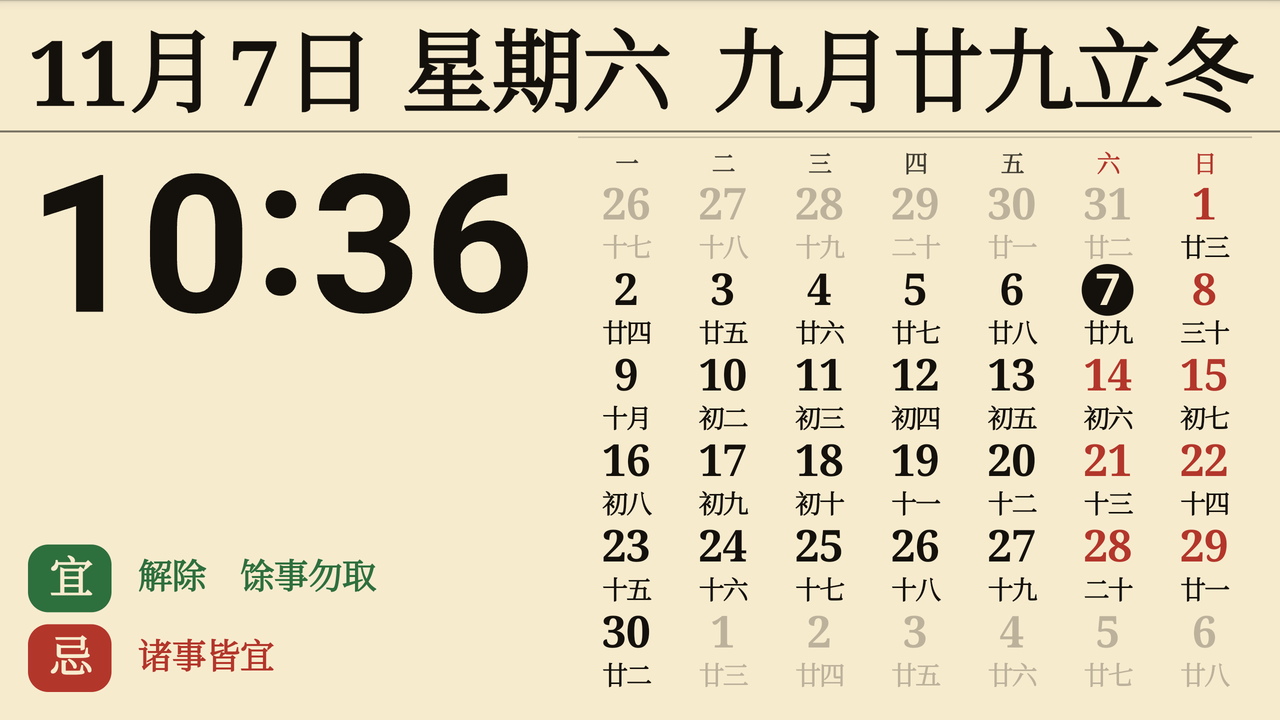
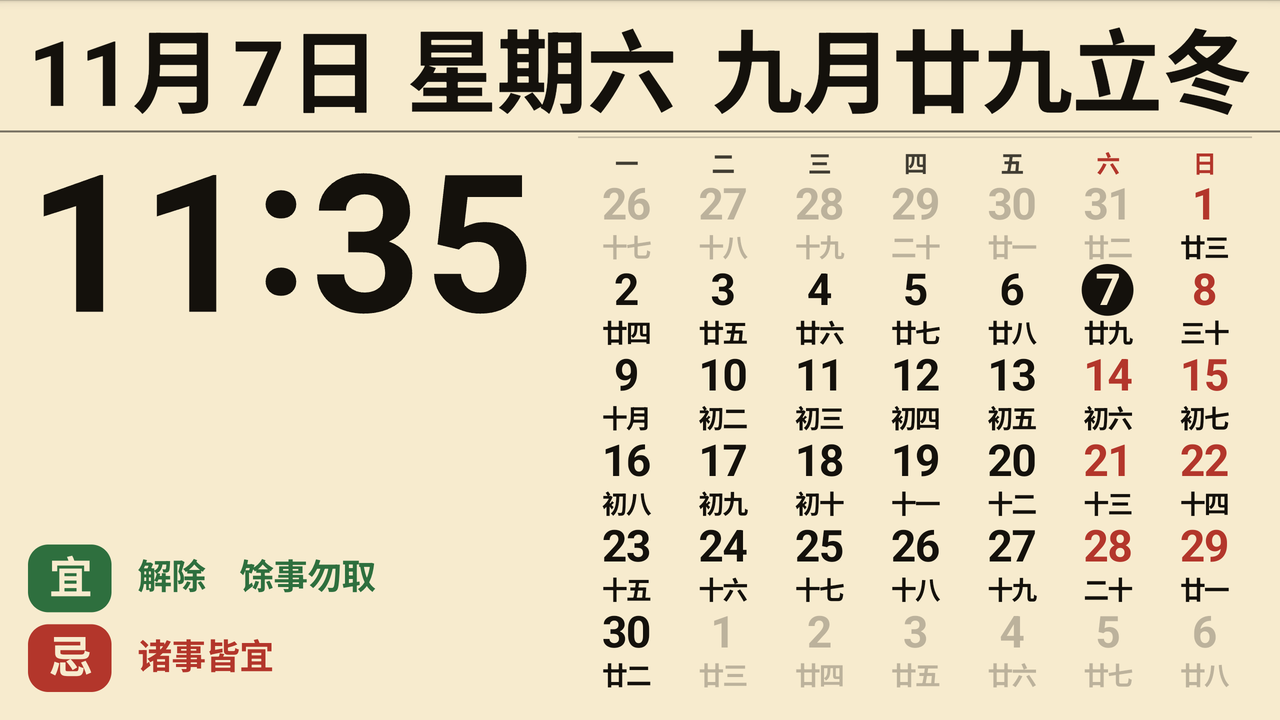
feat: set the page in the system sans-serif and let the date line shrink freely
Every run on the page now comes from the system sans-serif family, in its
normal and bold weights: the serif faces are gone from the printing plate,
from the chooser's Aa mark and from the docs.

The lunar run can carry a three-character festival (元宵节, 端午节, 重阳节,
腊八节) on top of a six-character lunar name, so the date line can reach nine
characters — 十一月三十 plus a festival. Its shrink has no floor any more:
keeping the weekday run clear of the lunar run outranks holding a minimum
size, so the two halves cannot meet however long the name grows. headerSpan
exposes the measured edges, and the device acceptance pass checks them on the
longest days of the year plus a nine-character worst case, at 85/100/140% in
both orientations: the tightest combination shrinks to 33% of the date size
and still keeps an em of air between the two runs.

diff --git a/app/src/main/java/com/calendarmods/DailyPage.kt b/app/src/main/java/com/calendarmods/DailyPage.kt
@@ -158,7 +158,7 @@ internal class DailyPage(
     // ------------------------------------------------------------------ blocks
 
     /**
-     * Date line: 11月 6日 星期五 with the day's lunar name right-aligned on the same baseline. The
+     * Date line: 11月 6日 星期六 with the day's lunar name right-aligned on the same baseline. The
      * lunar run carries the day's solar term or first festival without a space — `九月廿九立冬`.
      * Every run is set at the same size, so the line reads as one block rather than a headline and
      * a footnote; when the line is too wide the whole run gives up size together.
@@ -167,29 +167,53 @@ internal class DailyPage(
         val size = HEADER_SIZE * layout.scale * layout.headerScale
         val baseline = top + size * .86f
         var cursor = x
-        cursor += p.textAt(data.monthLabel, cursor, baseline, size, ink, p.serifBold) + GAP_MONTH * size
-        cursor += p.textAt(data.day, cursor, baseline, size, ink, p.serifBold) + GAP_DAY * size
-        cursor += p.textAt("日", cursor, baseline, size, ink, p.serifBold) + GAP_WEEKDAY * size
-        p.textAt(data.weekdayChinese, cursor, baseline, size, ink, p.serifBold)
+        cursor += p.textAt(data.monthLabel, cursor, baseline, size, ink, p.bold) + GAP_MONTH * size
+        cursor += p.textAt(data.day, cursor, baseline, size, ink, p.bold) + GAP_DAY * size
+        cursor += p.textAt("日", cursor, baseline, size, ink, p.bold) + GAP_WEEKDAY * size
+        p.textAt(data.weekdayChinese, cursor, baseline, size, ink, p.bold)
 
-        val lunarWidth = p.advance(data.lunarHeadline, size, p.serifBold)
-        p.textAt(data.lunarHeadline, x + w - lunarWidth, baseline, size, ink, p.serifBold)
+        val lunarWidth = p.advance(data.lunarHeadline, size, p.bold)
+        p.textAt(data.lunarHeadline, x + w - lunarWidth, baseline, size, ink, p.bold)
     }
 
-    /** How much the date line has to give up so the lunar run keeps its space on the right. */
-    private fun headerFit(p: Plate, w: Float, scale: Float): Float {
-        val needed = headerWidth(p, HEADER_SIZE * scale)
+    /**
+     * How much the date line has to give up so the lunar run keeps its space on the right. There is
+     * no floor: the headline can carry a term or festival (`十一月三十重阳节` is nine characters),
+     * and the weekday run clearing the lunar run outranks keeping a minimum size.
+     */
+    private fun headerFit(p: Plate, w: Float, scale: Float, headline: String = data.lunarHeadline): Float {
+        val needed = headerWidth(p, HEADER_SIZE * scale, headline)
         if (needed <= w) return 1f
-        return (w / needed).coerceIn(HEADER_MIN, 1f)
+        return w / needed
     }
+
+    /** Everything left of the lunar run, run gaps included. */
+    private fun headerLeftWidth(p: Plate, size: Float): Float =
+        p.advance(data.monthLabel, size, p.bold) + GAP_MONTH * size +
+            p.advance(data.day, size, p.bold) + GAP_DAY * size +
+            p.advance("日", size, p.bold) + GAP_WEEKDAY * size +
+            p.advance(data.weekdayChinese, size, p.bold)
 
     /** Gaps are em-based, so the whole line gives up size together and never closes up. */
-    private fun headerWidth(p: Plate, size: Float): Float =
-        p.advance(data.monthLabel, size, p.serifBold) + GAP_MONTH * size +
-            p.advance(data.day, size, p.serifBold) + GAP_DAY * size +
-            p.advance("日", size, p.serifBold) + GAP_WEEKDAY * size +
-            p.advance(data.weekdayChinese, size, p.serifBold) + GAP_LUNAR * size +
-            p.advance(data.lunarHeadline, size, p.serifBold)
+    private fun headerWidth(p: Plate, size: Float, headline: String): Float =
+        headerLeftWidth(p, size) + GAP_LUNAR * size + p.advance(headline, size, p.bold)
+
+    /**
+     * Where the two halves of the date line land, measured the way [header] prints them. The
+     * device acceptance pass walks it over every marked day of the year to prove that the weekday
+     * run stops short of the lunar run whatever length the term or festival adds.
+     */
+    internal fun headerSpan(p: Plate, scale: Float, headline: String = data.lunarHeadline): HeaderSpan {
+        val w = width - EDGE * 2f
+        val size = HEADER_SIZE * scale * headerFit(p, w, scale, headline)
+        return HeaderSpan(
+            size = size,
+            leftEnd = EDGE + headerLeftWidth(p, size),
+            lunarLeft = EDGE + w - p.advance(headline, size, p.bold),
+        )
+    }
+
+    internal class HeaderSpan(val size: Float, val leftEnd: Float, val lunarLeft: Float)
 
     private fun rule(p: Plate, x: Float, y: Float, w: Float) {
         p.rule(x, y, w, Plate.withAlpha(ink, .55f), 1f)
@@ -243,7 +267,7 @@ internal class DailyPage(
     private fun almanacRow(p: Plate, layout: Layout, label: String, items: List<String>,
         color: Int, top: Float): Float {
         val chipSize = layout.chipSize
-        val chipW = p.advance(label, chipSize, p.serifBold) + chipSize * .95f
+        val chipW = p.advance(label, chipSize, p.bold) + chipSize * .95f
         val chipH = chipSize * 1.55f
         p.paint.reset()
         p.paint.isAntiAlias = true
@@ -252,7 +276,7 @@ internal class DailyPage(
         chipRect.set(layout.almanacX, top, layout.almanacX + chipW, top + chipH)
         p.canvas.drawRoundRect(chipRect, radius, radius, p.paint)
         p.text(label, layout.almanacX, top, chipW, chipH, chipSize, onAccent,
-            align = ALIGN_CENTER, typeface = p.serifBold)
+            align = ALIGN_CENTER, typeface = p.bold)
 
         val textX = layout.almanacX + chipW + chipSize * .6f
         val textW = (layout.almanacX + layout.almanacW - textX).coerceAtLeast(1f)
@@ -261,7 +285,7 @@ internal class DailyPage(
         var baseline = top + (chipH - lines.size * lineHeight) / 2f + layout.itemSize * 1.02f
         if (baseline < top + layout.itemSize) baseline = top + layout.itemSize
         lines.forEach { line ->
-            p.textAt(line, textX, baseline, layout.itemSize, color, p.serifBold)
+            p.textAt(line, textX, baseline, layout.itemSize, color, p.bold)
             baseline += lineHeight
         }
         return max(chipH, lines.size * lineHeight)
@@ -279,7 +303,7 @@ internal class DailyPage(
     }
 
     private fun almanacHeight(p: Plate, layout: Layout): Float {
-        val chipW = p.advance("宜", layout.chipSize, p.serifBold) + layout.chipSize * .95f
+        val chipW = p.advance("宜", layout.chipSize, p.bold) + layout.chipSize * .95f
         val textW = (layout.almanacW - chipW - layout.chipSize * .6f).coerceAtLeast(1f)
         val lineHeight = layout.itemSize * 1.42f
         val chipH = layout.chipSize * 1.55f
@@ -293,11 +317,11 @@ internal class DailyPage(
     private fun wrapItems(p: Plate, items: List<String>, w: Float, size: Float): List<String> {
         if (items.isEmpty()) return emptyList()
         val separator = "　"
-        val separatorWidth = p.advance(separator, size, p.serifBold)
+        val separatorWidth = p.advance(separator, size, p.bold)
         val lines = mutableListOf(StringBuilder())
         var lineWidth = 0f
         items.forEach { item ->
-            val itemWidth = p.advance(item, size, p.serifBold)
+            val itemWidth = p.advance(item, size, p.bold)
             val hasText = lines.last().isNotEmpty()
             if (hasText && lineWidth + separatorWidth + itemWidth > w) {
                 lines += StringBuilder()
@@ -342,7 +366,7 @@ internal class DailyPage(
         names.forEachIndexed { index, name ->
             p.text(name, layout.gridX + index * layout.cellW, layout.gridY, layout.cellW, headerH,
                 headerH * .88f, color = if (index >= 5) red else Plate.withAlpha(ink, .8f),
-                typeface = p.serifBold)
+                typeface = p.bold)
         }
 
         val labelH = layout.labelSize * 1.24f
@@ -372,7 +396,7 @@ internal class DailyPage(
                         weekend -> red
                         else -> ink
                     },
-                    bold = true, typeface = if (today) p.bold else p.serifBold)
+                    bold = true, typeface = p.bold)
                 val fields = (listOf(cell.lunar) + cell.festivals).distinct()
                 rotateLabel(p, fields, left, rowTop + numberH + 1f, cellW, labelH,
                     layout.labelSize, if (cell.inMonth) ink else Plate.withAlpha(ink, .26f))
@@ -421,7 +445,7 @@ internal class DailyPage(
         if (value.isEmpty()) return
         p.paint.reset()
         p.paint.isAntiAlias = true
-        p.paint.typeface = p.serifBold
+        p.paint.typeface = p.bold
         p.paint.color = color
         p.paint.textSize = size
         var width = p.paint.measureText(value)
@@ -486,9 +510,7 @@ internal class DailyPage(
         private const val EDGE = 14f
 
         /** The date line is one size: 11月, the day, 日, the weekday and the lunar name all match. */
-        private const val HEADER_SIZE = 46f
-        /** Floor for the date line: the lunar run can carry a term or festival, so it can get long. */
-        private const val HEADER_MIN = .30f
+        internal const val HEADER_SIZE = 46f
         /** Gaps between the runs, in ems of the date line. */
         private const val GAP_MONTH = .12f
         private const val GAP_DAY = .05f

diff --git a/app/src/androidTest/java/com/calendarmods/CompatAcceptance.kt b/app/src/androidTest/java/com/calendarmods/CompatAcceptance.kt
@@ -35,6 +35,8 @@ class CompatAcceptance : Instrumentation() {
             }
             val output = File(targetContext.getExternalFilesDir(null), "acceptance").apply { mkdirs() }
             val data = CalendarData.create(PlainDate.of(2026, 11, 6))
+            // A throwaway surface: the measuring plate only needs real font metrics.
+            val probeBitmap = Bitmap.createBitmap(8, 8, Bitmap.Config.ARGB_8888)
             checkedMain {
                 val scales = listOf(ThemeStyle.MIN_FONT_SCALE, ThemeStyle.DEFAULT_FONT_SCALE,
                     ThemeStyle.MAX_FONT_SCALE)
@@ -80,6 +82,45 @@ class CompatAcceptance : Instrumentation() {
                 }
                 checks += "portrait and landscape pages print date, clock, 宜忌 and the month grid" +
                     " at 85%, 100% and 140% on both sheets without clipping the page edge"
+
+                // The lunar run can carry a three-character festival on top of a six-character
+                // lunar name. Measure the date line instead of trusting the render: the weekday
+                // run must stop before the lunar run starts, at every size and both orientations.
+                var tightest = 1f
+                for (date in listOf(PlainDate.of(2026, 1, 26), PlainDate.of(2026, 10, 18),
+                    PlainDate.of(2026, 9, 25), PlainDate.of(2026, 11, 6))) {
+                    val day = CalendarData.create(date)
+                    for ((w, h) in listOf(360 to 640, 640 to 360)) {
+                        for (scale in listOf(ThemeStyle.MIN_FONT_SCALE, ThemeStyle.DEFAULT_FONT_SCALE,
+                            ThemeStyle.MAX_FONT_SCALE)) {
+                            val page = DailyPage(CalendarTheme.DAILY.scheme(false), day,
+                                clockFace(true), w > h, w.toFloat(), h.toFloat(), false, 0L, scale)
+                            val plate = Plate(Canvas(probeBitmap), 0)
+                            val span = page.headerSpan(plate, scale)
+                            check(span.leftEnd < span.lunarLeft) {
+                                "The date line collided on ${day.lunarHeadline} at $w x $h," +
+                                    " scale $scale (${span.leftEnd} vs ${span.lunarLeft})"
+                            }
+                            tightest = minOf(tightest, span.size / (DailyPage.HEADER_SIZE * scale))
+                        }
+                    }
+                }
+                // Nine characters is the longest a name, a term and a festival can make together.
+                val worst = DailyPage(CalendarTheme.DAILY.scheme(false),
+                    CalendarData.create(PlainDate.of(2026, 11, 6)), clockFace(true), false,
+                    360f, 640f, false, 0L, ThemeStyle.MAX_FONT_SCALE)
+                for (headline in listOf("十一月三十重阳节", "十一月三十腊八节", "十二月初八平安夜")) {
+                    val span = worst.headerSpan(Plate(Canvas(probeBitmap), 0),
+                        ThemeStyle.MAX_FONT_SCALE, headline)
+                    check(span.leftEnd < span.lunarLeft) {
+                        "A nine-character headline collided at 140% ($headline:" +
+                            " ${span.leftEnd} vs ${span.lunarLeft})"
+                    }
+                    tightest = minOf(tightest, span.size / (DailyPage.HEADER_SIZE * ThemeStyle.MAX_FONT_SCALE))
+                }
+                checks += "the date line keeps its gap when the lunar run carries a term or a" +
+                    " three-character festival: it shrinks to ${(tightest * 100).toInt()}% of the" +
+                    " date size at worst, and the weekday run stops short of the lunar run"
 
                 // The 12-hour reading is wider than 24-hour: it must still fit the same column.
                 for (hour24 in listOf(true, false)) {

diff --git a/app/src/test/java/com/calendarmods/CalendarDataTest.kt b/app/src/test/java/com/calendarmods/CalendarDataTest.kt
@@ -143,6 +143,19 @@ class CalendarDataTest {
         assertTrue(data.lunarHeadline.endsWith("冬至"))
     }
 
+    @Test fun aThreeCharacterFestivalMakesTheLongestDateLineOfTheYear() {
+        // 腊八节 sits on a fifth lunar day name, so the run reaches eight characters — the longest
+        // the source produces in 2026-2028. Nine is the ceiling once a term or festival is joined
+        // to 十一月三十, which is what the date line is measured against.
+        val laba = CalendarData.create(PlainDate.of(2026, 1, 26))
+        assertEquals("腊八节", laba.festivals.single())
+        assertEquals("十二月初八腊八节", laba.lunarHeadline)
+        assertEquals(8, laba.lunarHeadline.length)
+
+        val chongyang = CalendarData.create(PlainDate.of(2026, 10, 18))
+        assertEquals("九月初九重阳节", chongyang.lunarHeadline)
+    }
+
     private fun cellOf(date: PlainDate): CalendarCell =
         CalendarData.create(date).cells.single { it.date == date }
 }

diff --git a/app/src/main/java/com/calendarmods/Plate.kt b/app/src/main/java/com/calendarmods/Plate.kt
@@ -16,11 +16,9 @@ internal const val ALIGN_RIGHT = 2
  */
 internal class Plate(val canvas: Canvas, val ink: Int) {
     val paint = Paint(Paint.ANTI_ALIAS_FLAG)
+    // One family for the whole page: the system sans-serif, in its normal and bold weights.
     val sans: Typeface = Typeface.create("sans-serif", Typeface.NORMAL)
-    val serif: Typeface = Typeface.create("serif", Typeface.NORMAL)
-    val serifBold: Typeface = Typeface.create("serif", Typeface.BOLD)
     val bold: Typeface = Typeface.create("sans-serif", Typeface.BOLD)
-    val light: Typeface = Typeface.create("sans-serif-light", Typeface.NORMAL)
 
     fun rule(x: Float, y: Float, w: Float, color: Int = ink, thickness: Float = .65f) {
         paint.reset(); paint.isAntiAlias = true

diff --git a/app/src/main/java/com/calendarmods/ChooserView.kt b/app/src/main/java/com/calendarmods/ChooserView.kt
@@ -117,7 +117,7 @@ internal class ChooserView(context: Context) : View(context) {
         canvas.drawCircle(styleButton.centerX(), styleButton.centerY(), dp(24f), paint)
         paint.color = foreground
         paint.textSize = dp(17f)
-        paint.typeface = android.graphics.Typeface.create("serif", android.graphics.Typeface.BOLD)
+        paint.typeface = android.graphics.Typeface.create("sans-serif", android.graphics.Typeface.BOLD)
         val label = "Aa"
         canvas.drawText(label, styleButton.centerX() - paint.measureText(label) / 2f,
             styleButton.centerY() - (paint.descent() + paint.ascent()) / 2f, paint)

diff --git a/docs/daily-page.md b/docs/daily-page.md
@@ -1,6 +1,6 @@
 # 页面版式与数据来源
 
-「今朝 · 每日一页」是应用唯一的内置版式，全部由 `DailyPage` 用 Canvas 绘制，文字使用系统字体。
+「今朝 · 每日一页」是应用唯一的内置版式，全部由 `DailyPage` 用 Canvas 绘制，文字取系统默认的无衬线字族。
 
 ## 设计坐标
 
@@ -14,9 +14,9 @@
 ## 版式规则
 
 - **贴边**：整页 `EDGE = 14`，只有旧模板的一半左右，省下的空间全部给字号。
-- **全部加粗**：日期行、时钟、月历数字与农历、宜忌条目一律粗体；只保留笔画本身的粗细对比（衬线用于中文，无衬线用于数字与时钟）。
-- **日期行**：`11月`、日号、`日`、`星期六` 与右侧农历**共享同一个字号 46 号**，同一基线；行内间距按 em 计（`.12 / .05 / .30 / .34`），所以整行缩小时字与空隙一起收，农历始终占着自己的位置。整行宽度先量一遍，超出时按比例收缩（最低 30%，因为右侧那一段可能连着节气或节日），横屏 640 宽通常不触发收缩。
-- **右侧一段连排节气 / 节日**：`CalendarData.lunarHeadline` 把当天的节气或节日直接接在农历后面，中间不加空格，与整行同字号、同基线、一次印到底。优先级是节气 > 节日 > 无：当天交节印 `九月廿九立冬`；同一天既有节气又有节日（如 12 月 22 日的冬至与冬至节）印节气；没有节气而有多个节日时印数据源给出的第一个（中秋与国庆同一天印 `八月十五中秋节`）。这一段是单一字段，不轮播。
+- **全部加粗、全部无衬线**：整页只用系统默认的无衬线字族（`sans-serif`，API 14 上即 Droid Sans，现代设备上是 Roboto），日期行、时钟、月历数字与农历、宜忌条目一律取其中的粗体，数字与标点也来自同一字族。
+- **日期行**：`11月`、日号、`日`、`星期六` 与右侧农历**共享同一个字号 46 号**，同一基线；行内间距按 em 计（`.12 / .05 / .30 / .34`），所以整行缩小时字与空隙一起收，农历始终占着自己的位置。整行宽度先量一遍，超出时按比例收缩——收缩不设下限：右侧那一段可能连着节气或节日（最长是 `十一月三十` 再加三字节日，共九字），让星期与农历分得开优先于保住字号。横屏 640 宽通常不触发收缩。
+- **右侧一段连排节气 / 节日**：`CalendarData.lunarHeadline` 把当天的节气或节日直接接在农历后面，中间不加空格，与整行同字号、同基线、一次印到底。优先级是节气 > 节日 > 无：当天交节印 `九月廿九立冬`；同一天既有节气又有节日（如 12 月 22 日的冬至与冬至节）印节气；没有节气而有多个节日时印数据源给出的第一个（中秋与国庆同一天印 `八月十五中秋节`）。这一段是单一字段，不轮播。三字节日（元宵节、端午节、重阳节、腊八节等）同样连排，最长的一行是腊八节落在腊月初八时的 `十二月初八腊八节`（八字）；设备验收脚本逐个量过这些日子，星期一段的右端始终停在这一段的左端之前。
 - **时钟**：竖屏 64 号、横屏按左列宽度自动放大（上限约 1.5 倍），字距为字号的 1.6%。冒号单独一行基线，用 `Plate.centerShift` 量出数字与冒号的墨迹中心差，把冒号抬到数字的垂直中线。
 - **12 / 24 小时制**：`ClockFace(period, hour, minute)` 把读数拆成三段，24 小时制 `period` 为空、小时补零（`01:05`）；12 小时制 `period` 为 `上午 / 下午`、小时不补零（`上午9:05`、`下午12:30`）。`上午 / 下午` 与数字同字号，整段宽度按列宽收缩（`fitClock`），因此 12 小时制整行都收在列宽之内。
 - **横屏通栏**：日期行与分隔线贯穿整个屏幕宽度，月历排在通栏线下方、贴住屏幕下沿，视觉上整体下移。
@@ -43,14 +43,14 @@
 
 | 保护条件 | 含义 |
 | --- | --- |
-| 日期行 `headerFit` | 整行宽度 + 农历宽度 ≤ 版心宽度 |
+| 日期行 `headerFit` | 整行宽度 + 农历宽度 ≤ 版心宽度（不设字号下限，优先级高于字号） |
 | 月历 `cellH ≥ 26` | 六行格子保持可读高度 |
 | 宜忌 `almanacY ≥ 时钟底 + 6` | 宜忌块与时钟之间留出空隙 |
 | 月历数字 `fitNumber` | 数字宽度 ≤ 格宽 92%，高度 ≤ 标签以上剩余高度 |
 | 农历标签 `min(cellH × 30%, cellW × 46%)` | 两个字一定落在格内 |
 | 宜忌占比上限 | 竖屏 ≤ 页高 26%、横屏 ≤ 46%，超出时只缩宜忌条目，月历保持原尺寸 |
 
-因此滑块拉到两端时，页面呈现的是“月历略紧、宜忌略小”，整页仍完整落在屏幕内，每一块都读得清。设备验收在 85% / 100% / 140% 三种字号、横竖两个方向、深浅两种印法下逐张贴图渲染，检查屏幕最底三行像素仍是纸色（内容全部落在屏幕内）、最右八列在日期行高度内仍是纸色（日期行收在右边界以内），并在 24 小时制与 12 小时制下各渲染一张。
+因此滑块拉到两端时，页面呈现的是“月历略紧、宜忌略小”，整页仍完整落在屏幕内，每一块都读得清。设备验收在 85% / 100% / 140% 三种字号、横竖两个方向、深浅两种印法下逐张贴图渲染，检查屏幕最底三行像素仍是纸色（内容全部落在屏幕内）、最右八列在日期行高度内仍是纸色（日期行收在右边界以内）；另外用 `headerSpan` 直接量星期段与农历段的边界，把三字节日与九字最坏情况在六个组合下逐个对账，确认两段始终不相遇。
 
 ## 轮播时间轴
 

diff --git a/docs/device-validation.md b/docs/device-validation.md
@@ -5,7 +5,7 @@
 ## 构建与设备
 
 - 构建命令：`testDebugUnitTest assembleDebug assembleDebugAndroidTest lintDebug --offline`。
-- 52 个 JVM 单元测试通过，0 失败：历法、日期行节气/节日拼接、分页、字号缩放边界、配色对比度、夜间窗口、光线迟滞、12 / 24 小时读数与人脸相关规则。
+- 53 个 JVM 单元测试通过，0 失败：历法、日期行节气/节日拼接（含三字节日的最长一行）、分页、字号缩放边界、配色对比度、夜间窗口、光线迟滞、12 / 24 小时读数与人脸相关规则。
 - Lint：`No issues found.`
 - ADB 设备：`emulator-5554`，Android 15 / API 35，1440 × 2560，density 360，字体缩放 1.0。
 
@@ -14,8 +14,10 @@
 - `CompatAcceptance` 用例在设备上逐张渲染 **竖屏 360 × 640** 与 **横屏 640 × 360** × **85% / 100% / 140%** 字号 × **浅色 / 深色** 两种印法，共 12 张，另有 24 小时制与 12 小时制各一张，全部 PASS。
 - 每张渲染图检查四件事：整页确实印出了内容（非纸色像素 > 千分之五）；**画面最底三行像素必须是纸色**，即所有内容都落在屏幕内；**最右八列在日期行高度内必须是纸色**，即日期行收在右边界以内；左上角像素必须是所选印法的纸色，确保整页铺满。
 - 人工核对：日期行（“11月 7 日 星期六 九月廿九立冬”）**同一字号、同一基线**，五段之间的空隙在 85% / 100% / 140% 下都保持可见，农历始终占着自己的位置；节气直接接在农历后面、中间无空格；时钟冒号抬到数字垂直中线；时钟、六行七列月历、左下角宜忌在深浅两套配色下都清晰可读；横屏日期行与分隔线贯穿全宽，月历整体下移并贴住屏幕下沿。
+- **日期行不会相撞**：脚本另外用 `DailyPage.headerSpan` 量出星期一段的右端与农历段的左端（不靠看图），在 85% / 100% / 140% 与横竖两个方向下逐个比对腊八节、重阳节、中秋节与今天的页面，并另外拿九字的最坏情况（`十一月三十重阳节` 等）在同一把尺子下量一遍；所有情形都满足「星期右端 < 农历左端」。最紧的一次是九字标题的 140% 竖屏，整行缩到字号基准的 33%，仍然留出一条 em 级空隙。
 - 12 小时制在设备上读作 `上午1:30`：「上午」与数字同字号，冒号同样居中，整行收在列宽内；24 小时制仍是 `01:30`。
-- 11/07 立冬当天，日期行读作 `11月7日 星期六 九月廿九立冬`，节气紧接农历、中间无空格；140% 字号下整行按比例收缩，五段仍各自成段、互不重叠，右端留有一格左右的余量。
+- 11/07 立冬当天，日期行读作 `11月7日 星期六 九月廿九立冬`，节气紧接农历、中间无空格；01/26 腊八节读作 `1月26日 星期一 十二月初八腊八节`，三字节日连排后同样收在右边界内。
+- 全页字体取自系统默认无衬线字族：截图里中文、数字与标点的笔画都是无衬线（无起笔三角与横画装饰），与系统 UI 字体一致。
 - 滚动轮播在 11/07（立冬）与 11/22（小雪）等日期上确认：农历与节气/节日每 3 秒上滑切换，同一行的格子同步。
 
 ## 样式面板

diff --git a/docs/assets.md b/docs/assets.md
@@ -1,6 +1,6 @@
 # 素材来源
 
-界面全部由 Canvas 绘制，文字使用系统字体；随包只有启动图标与本页列出的第三方许可。
+界面全部由 Canvas 绘制，文字使用系统默认的无衬线字族（`sans-serif`），随机型取用其常规、粗体与细体字重，不打包任何字体文件；随包只有启动图标与本页列出的第三方许可。
 
 ## 应用图标
 
